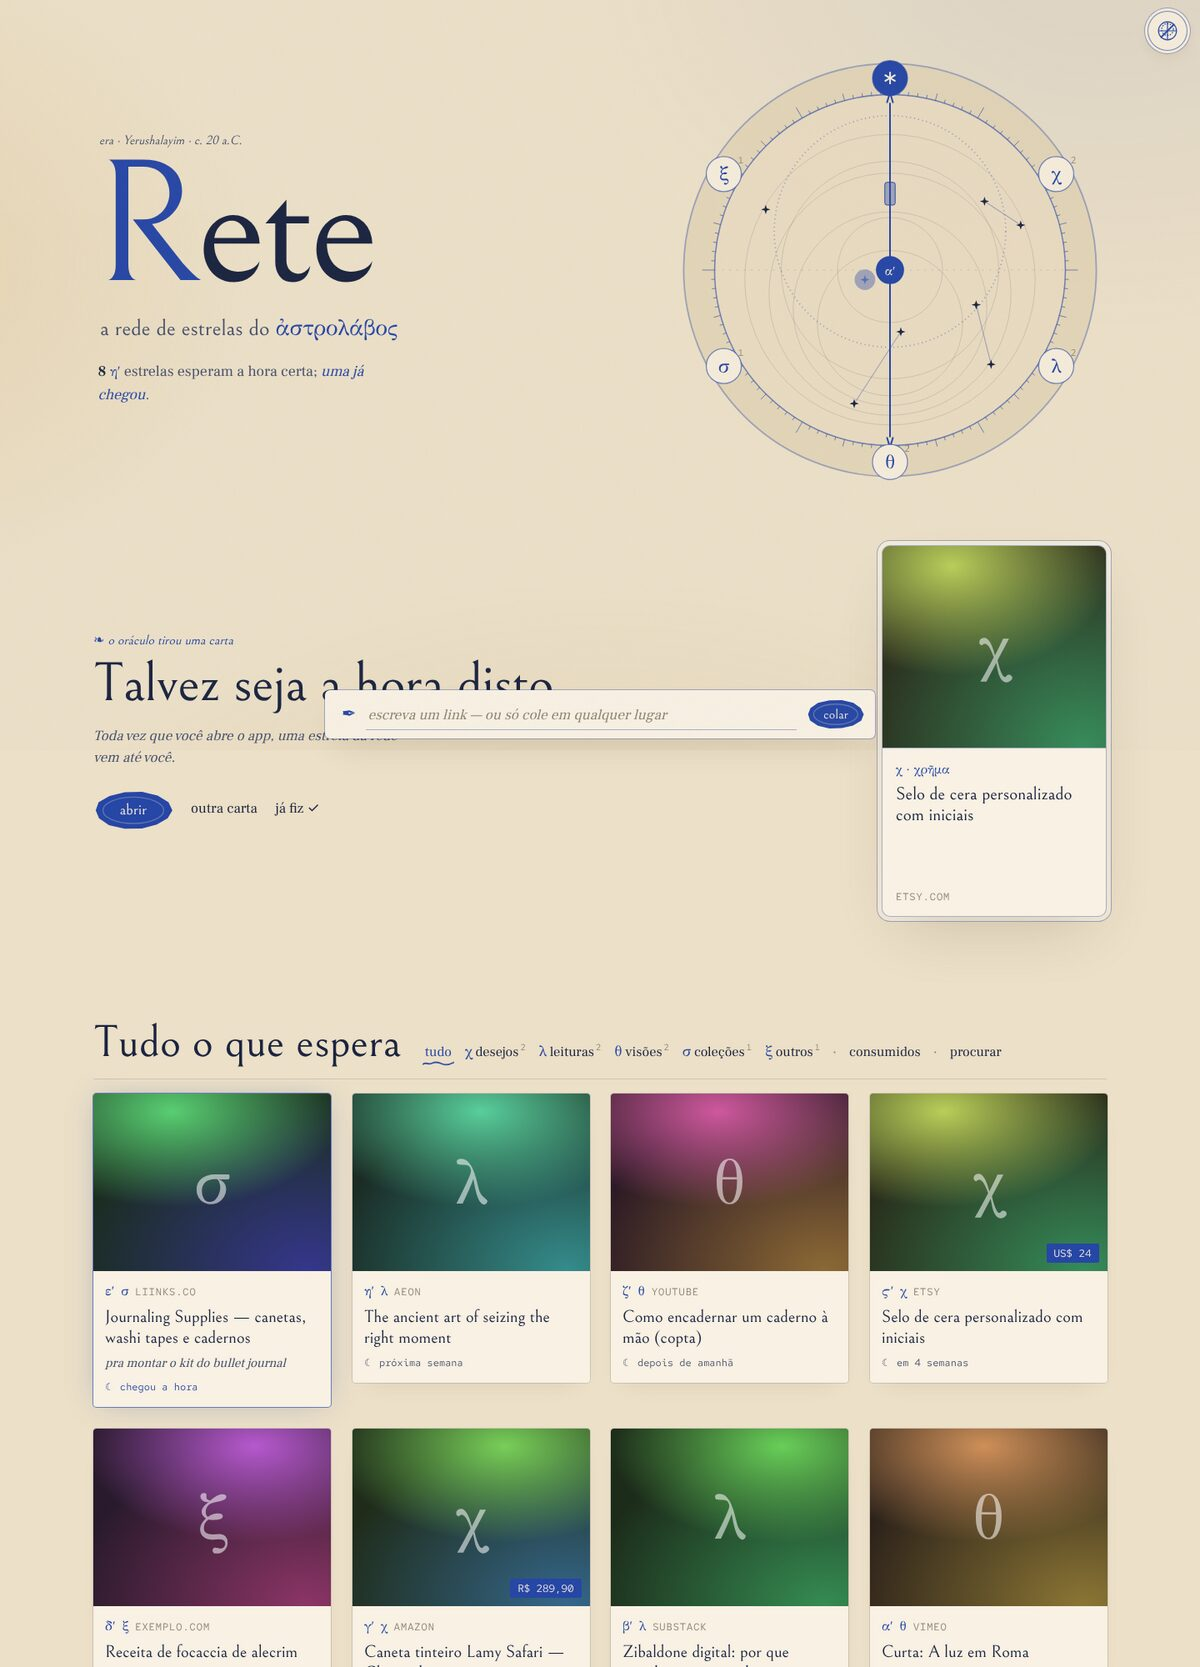
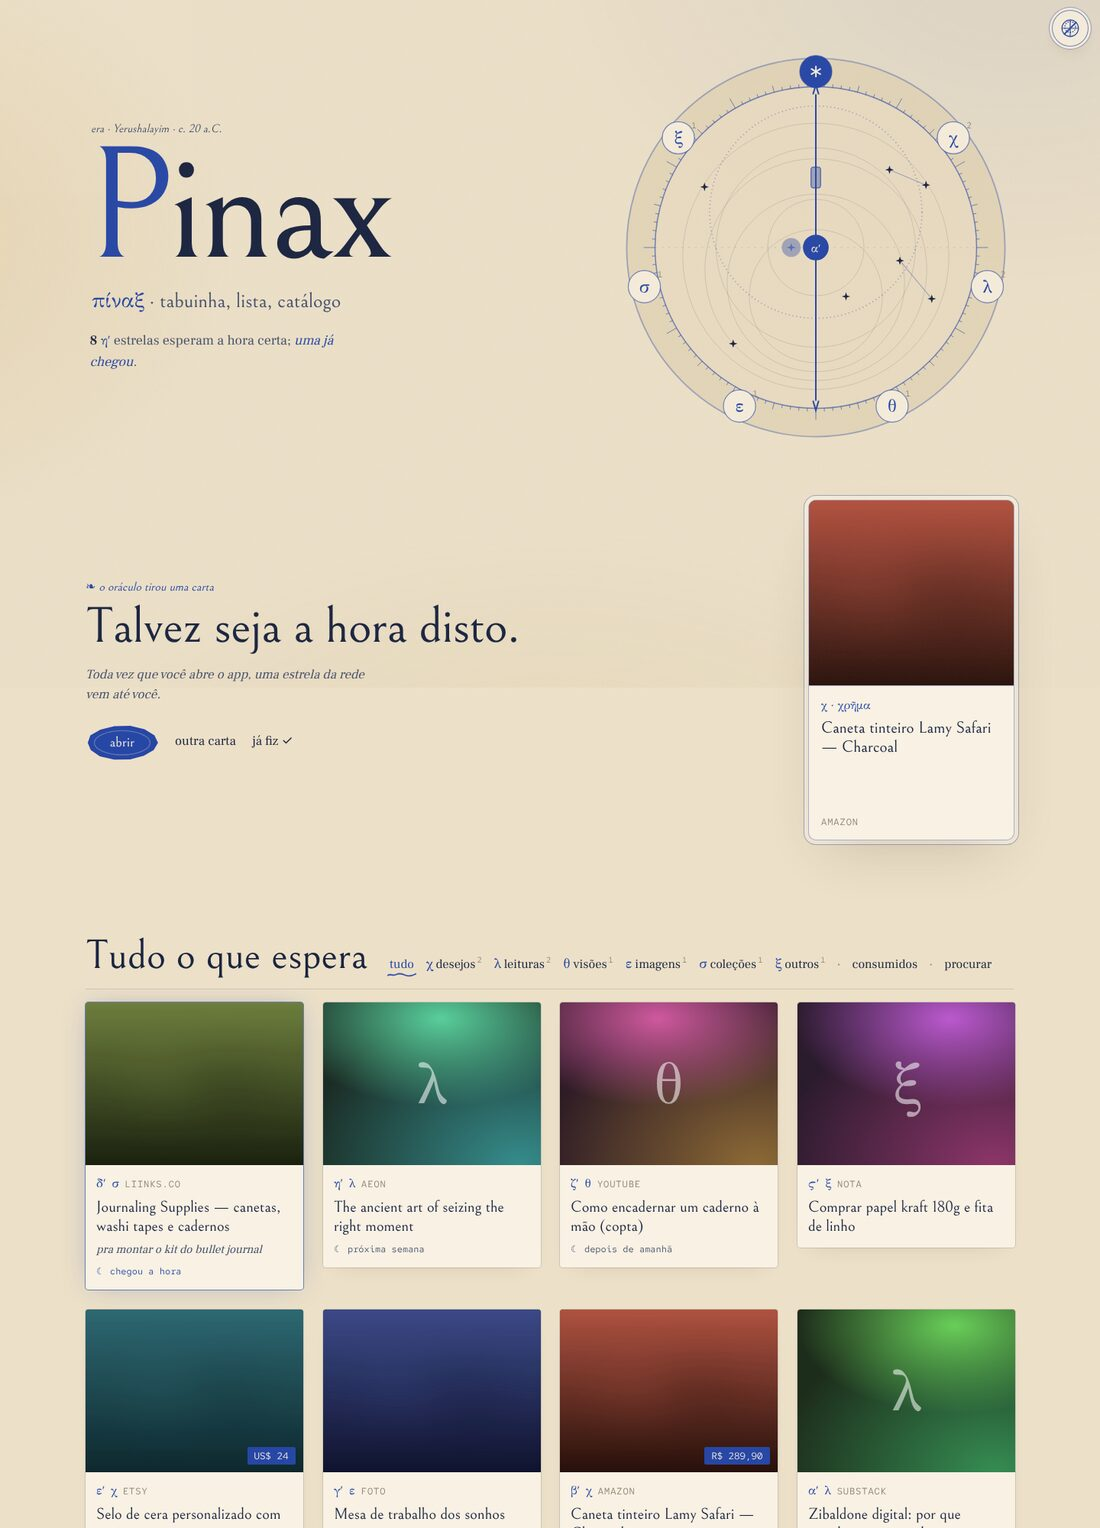
docs: imagens do README com o Pinax de hoje
Mural, Yerushalayim, o feitiço (Πιναξ → Pinax e em hebraico), as eras e o
celular. Sai a imagem antiga que ainda mostrava o nome Rete.

Claude-Session: https://claude.ai/code/session_01Jh1DhLfu7fXB1j5bC6K65X

diff --git a/README.md b/README.md
@@ -6,7 +6,8 @@
 <p align="center"><img src="public/icon.svg" width="120"></p>
 
 <p align="center"><img src="docs/mural.jpg" width="49%"> <img src="docs/yerushalayim.jpg" width="49%"></p>
-<p align="center"><img src="docs/feitico.jpg" width="56%"> <img src="docs/eras.jpg" width="42%"></p>
+<p align="center"><img src="docs/feitico.jpg" width="49%"> <img src="docs/eras.jpg" width="49%"></p>
+<p align="center"><img src="docs/celular.jpg" width="60%"></p>
 
 ## O que tem
 
